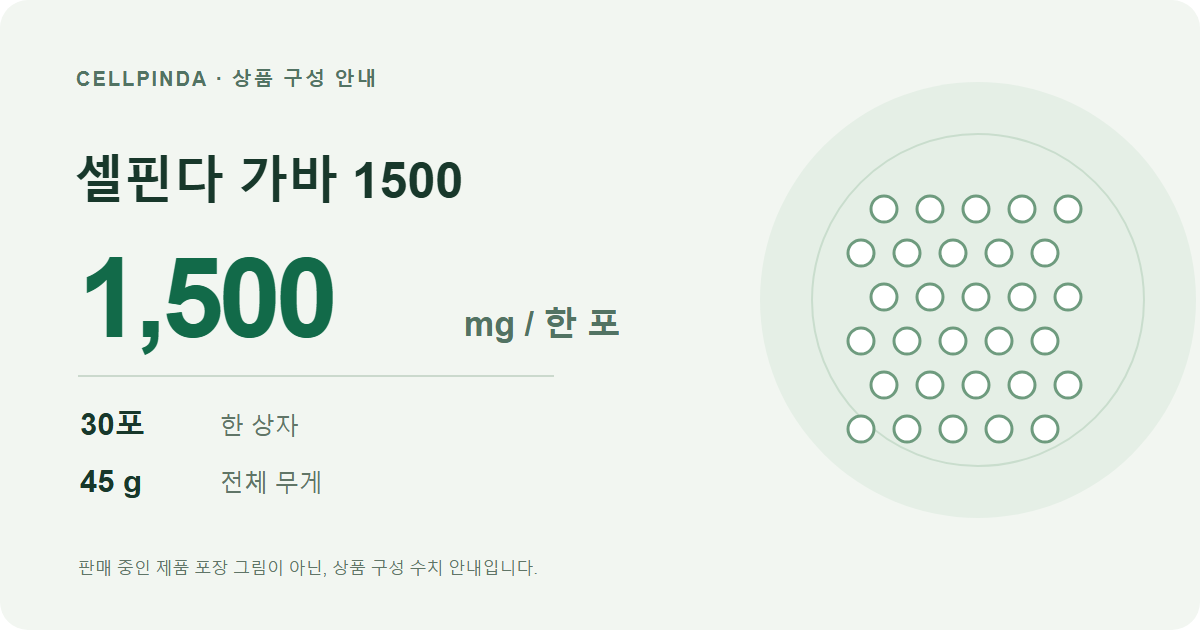
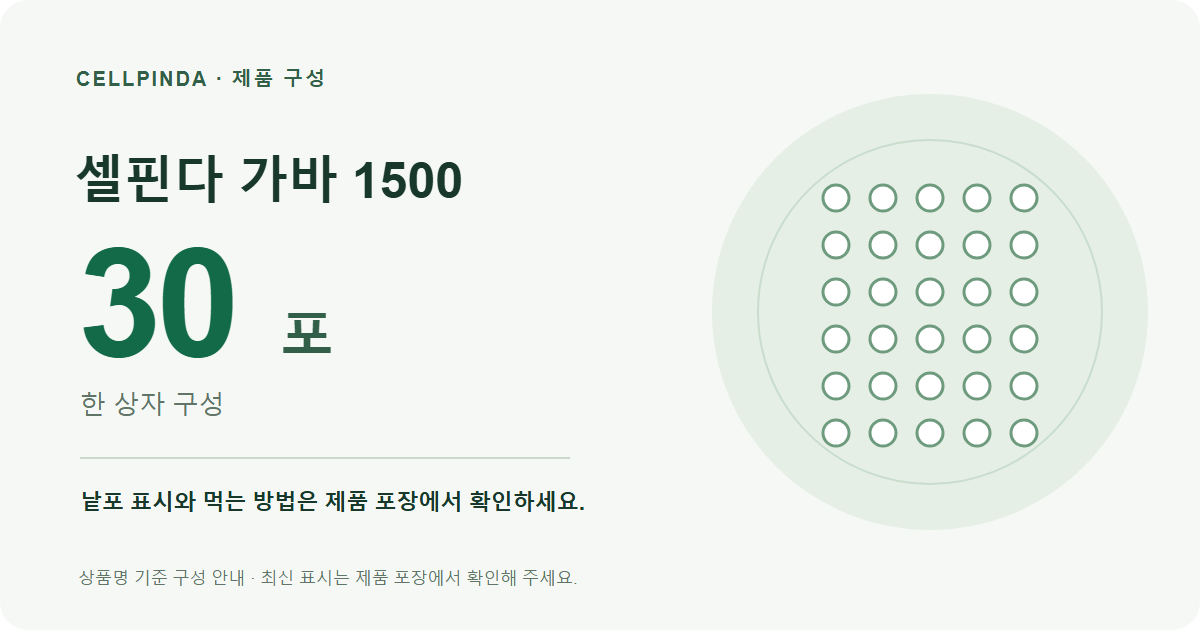
Apply consumer clarity and product evidence audit

diff --git a/src/App.tsx b/src/App.tsx
@@ -18,7 +18,7 @@ import {analyticsConsentGranted} from './domain/analytics-consent';
 import {REVIEW_DESTINATION_URL} from './domain/reviews';
 const Admin = lazy(() => import('./components/Admin'));
 const MemberRecords=lazy(()=>import('./components/MemberRecords'));
-type Product={id:string;name:string;amountMg:number;servings:number;totalG:number;category:string;officialUrl:string;availability?:string;priceDisplay?:string|null};
+type Product={id:string;name:string;servings:number;category:string;officialUrl:string;availability?:string;priceDisplay?:string|null};
 type Content={claims:Claim[];products:Product[];reviews:PublicReview[]};
 const eventMap:Record<string,string>={rhythm_start:'rhythm_check_started',rhythm_complete:'rhythm_check_completed',share_request:'share_requested',share_copy:'share_link_copied',card_download:'share_image_downloaded',purchase_click:'purchase_outbound_clicked',review_open:'review_opened',review_nav:'review_section_navigated',faq_open:'purchase_question_opened'};
 const siteRoot=import.meta.env.BASE_URL;
@@ -75,7 +75,7 @@ async function loadContent(signal:AbortSignal):Promise<Content>{
  return fallback.json();
 }
 function ContentFallback({loading,onRetry}:{loading:boolean;onRetry:()=>void}){
- return <section className="section wrap content-status" aria-live="polite"><p className="chapter">셀핀다 발효가바</p><h2>{loading?'정보를 불러오고 있어요.':'연결이 잠시 늦어졌어요.'}</h2><p>{loading?'제품과 연구 정보를 불러오는 중입니다.':'1분 체크는 바로 할 수 있어요. 아래에서 GABA와 제품 정보를 먼저 살펴보세요.'}</p>{!loading?<div className="actions"><a className="button outline" href="https://smartstore.naver.com/cellpinda/products/4701017202" target="_blank" rel="noreferrer">스마트스토어 제품 보기 ↗</a><button type="button" className="button outline" onClick={onRetry}>다시 불러오기</button></div>:null}{!loading?<div className="content-status-grid"><article id="story"><p className="chapter">GABA는?</p><h3>뇌세포 사이에서 신호를 주고받는 데 쓰이는 물질</h3><p>GABA는 뇌세포 사이에서 신호를 주고받는 과정에 쓰이는 물질 중 하나예요.</p></article><article id="fermentation"><p className="chapter">발효가바는?</p><h3>발효 기술로 만든 GABA</h3><p>발효가바를 만드는 방법과 확인 자료를 쉽게 소개해요.</p></article><article id="products"><p className="chapter">제품 구성</p><h3>셀핀다 가바 1,500 mg × 30포</h3><p>현재 구성과 먹는 방법은 스마트스토어와 제품 포장에서 확인해 보세요.</p><a className="text-link" href="https://smartstore.naver.com/cellpinda/products/4701017202" target="_blank" rel="noreferrer">스마트스토어에서 제품 보기 ↗</a></article><article id="reviews"><p className="chapter">구매자 후기</p><h3>가바 1500 구매자 후기</h3><p>스마트스토어에서 구매한 사람들의 후기를 읽어보세요.</p></article><article id="research"><p className="chapter">연구 이야기</p><h3>사람 연구에서 무엇을 살펴봤나요?</h3><p>GABA와 잠·긴장·운동에 관한 연구를 쉬운 말로 정리했어요.</p><ul><li><strong>긴장할 때</strong> 생각을 많이 쓰는 과제 뒤 뇌파와 기분</li><li><strong>잠</strong> 잠드는 시간과 수면 기록</li><li><strong>운동</strong> 운동 뒤 몸에서 살펴본 변화</li></ul></article></div>:null}</section>;
+ return <section className="section wrap content-status" aria-live="polite"><p className="chapter">셀핀다 발효가바</p><h2>{loading?'정보를 불러오고 있어요.':'연결이 잠시 늦어졌어요.'}</h2><p>{loading?'제품과 연구 정보를 불러오는 중입니다.':'1분 체크는 바로 할 수 있어요. 아래에서 GABA와 제품 정보를 먼저 살펴보세요.'}</p>{!loading?<div className="actions"><a className="button outline" href="https://smartstore.naver.com/cellpinda/products/4701017202" target="_blank" rel="noreferrer">스마트스토어 제품 보기 ↗</a><button type="button" className="button outline" onClick={onRetry}>다시 불러오기</button></div>:null}{!loading?<div className="content-status-grid"><article id="story"><p className="chapter">GABA는?</p><h3>뇌세포 사이에서 신호를 주고받는 데 쓰이는 물질</h3><p>GABA는 뇌세포 사이에서 신호를 주고받는 과정에 쓰이는 물질 중 하나예요.</p></article><article id="fermentation"><p className="chapter">발효가바는?</p><h3>발효 기술로 만든 GABA</h3><p>발효가바를 만드는 방법과 확인 자료를 쉽게 소개해요.</p></article><article id="products"><p className="chapter">제품 구성</p><h3>셀핀다 가바 1500 · 30포 구성</h3><p>낱포 표시와 먹는 방법은 제품 포장에서, 가격과 재고는 스마트스토어에서 확인해 보세요.</p><a className="text-link" href="https://smartstore.naver.com/cellpinda/products/4701017202" target="_blank" rel="noreferrer">스마트스토어에서 제품 보기 ↗</a></article><article id="reviews"><p className="chapter">구매자 후기</p><h3>가바 1500 구매자 후기</h3><p>스마트스토어에서 구매한 사람들의 후기를 읽어보세요.</p></article><article id="research"><p className="chapter">연구 이야기</p><h3>사람 연구에서 무엇을 살펴봤나요?</h3><p>GABA와 잠·긴장·운동에 관한 연구를 쉬운 말로 정리했어요.</p><ul><li><strong>긴장할 때</strong> 생각을 많이 쓰는 과제 뒤 뇌파와 기분</li><li><strong>잠</strong> 잠드는 시간과 수면 기록</li><li><strong>운동</strong> 운동 뒤 몸에서 살펴본 변화</li></ul></article></div>:null}</section>;
 }
 export default function App(){
  const [content,setContent]=useState<Content|null>(null),[error,setError]=useState(false),[loading,setLoading]=useState(true),[menu,setMenu]=useState(false),[retryKey,setRetryKey]=useState(0);
@@ -179,10 +179,10 @@ export default function App(){
  if(accountView)return <Suspense fallback={<p className="loading">내 기록을 여는 중입니다.</p>}><MemberRecords/></Suspense>;
  if(adminView)return <Suspense fallback={<p className="loading">검토실을 여는 중입니다.</p>}><Admin/></Suspense>;
  if(operationsView)return <OperationsMvp/>;
-  if(researchView)return <><a className="skip" href="#main">본문으로 이동</a><header className="header research-route-header"><a href={siteRoot} className="brand">Cellpinda<span className="brand-dot">.</span></a><nav aria-label="연구 메뉴"><a href={siteRoot}>메인으로 돌아가기</a></nav></header><main id="main" className="research-route-main">{content?<><section className="research-route-intro wrap"><p className="chapter">GABA 사람 연구</p><h1>사람 연구 내용을<br/>그림과 쉬운 말로 살펴봐요.</h1><p>GABA 사람 연구를 쉬운 말로 소개해요. 셀핀다 제품 정보는 제품 페이지에서 확인해 보세요.</p></section><ResearchLibrary claims={content.claims} onOpen={()=>track('evidence_opened',{path:'/research'})}/><section className="section wrap research-route-product" aria-labelledby="research-route-product-heading"><div><p className="chapter">제품 구성</p><h2 id="research-route-product-heading">연구 내용과 제품 구성은<br/>따로 확인해 보세요.</h2><p>셀핀다 가바 1500의 한 포 기준 양과 상자 구성을 확인할 수 있어요.</p></div><a className="button outline" href={`${siteRoot}#products`}>셀핀다 가바 1500 구성 보기 <ArrowRight size={18}/></a></section></>:<section className="section wrap content-status"><p className="chapter">GABA 사람 연구</p><h1>{loading?'연구 내용을 불러오고 있어요.':'연결이 잠시 늦어졌어요.'}</h1><p>{loading?'사람 연구를 쉽게 정리한 내용을 불러오는 중입니다.':'연구 자료를 불러오지 못했습니다. 다시 시도해 주세요.'}</p>{!loading?<button type="button" className="button outline" onClick={()=>setRetryKey(value=>value+1)}>다시 불러오기</button>:null}</section>}</main><footer className="wrap footer research-route-footer"><a className="brand" href={siteRoot}>Cellpinda.</a><p>GABA 사람 연구 안내</p><a href={siteRoot}>메인으로 돌아가기</a></footer></>;
+  if(researchView)return <><a className="skip" href="#main">본문으로 이동</a><header className="header research-route-header"><a href={siteRoot} className="brand">Cellpinda<span className="brand-dot">.</span></a><nav aria-label="연구 메뉴"><a href={siteRoot}>메인으로 돌아가기</a></nav></header><main id="main" className="research-route-main">{content?<><section className="research-route-intro wrap"><p className="chapter">GABA 사람 연구</p><h1>사람 연구 내용을<br/>그림과 쉬운 말로 살펴봐요.</h1><p>GABA 사람 연구를 쉬운 말로 소개해요. 셀핀다 제품 정보는 제품 페이지에서 확인해 보세요.</p></section><ResearchLibrary claims={content.claims} onOpen={()=>track('evidence_opened',{path:'/research'})}/><section className="section wrap research-route-product" aria-labelledby="research-route-product-heading"><div><p className="chapter">제품 구성</p><h2 id="research-route-product-heading">연구 내용과 제품 구성은<br/>따로 확인해 보세요.</h2><p>제품명과 30포 구성을 확인할 수 있어요. 낱포 표시 내용은 제품 포장에서 확인해 주세요.</p></div><a className="button outline" href={`${siteRoot}#products`}>셀핀다 가바 1500 구성 보기 <ArrowRight size={18}/></a></section></>:<section className="section wrap content-status"><p className="chapter">GABA 사람 연구</p><h1>{loading?'연구 내용을 불러오고 있어요.':'연결이 잠시 늦어졌어요.'}</h1><p>{loading?'사람 연구를 쉽게 정리한 내용을 불러오는 중입니다.':'연구 자료를 불러오지 못했습니다. 다시 시도해 주세요.'}</p>{!loading?<button type="button" className="button outline" onClick={()=>setRetryKey(value=>value+1)}>다시 불러오기</button>:null}</section>}</main><footer className="wrap footer research-route-footer"><a className="brand" href={siteRoot}>Cellpinda.</a><p>GABA 사람 연구 안내</p><a href={siteRoot}>메인으로 돌아가기</a></footer></>;
  const linkContext=referralId?<aside className="link-context" aria-live="polite">공유된 리듬 링크로 방문했어요. 내 하루도 1분이면 확인할 수 있어요.</aside>:campaignId?<aside className="link-context" aria-live="polite">캠페인 링크로 방문했어요. 원하는 흐름부터 살펴보세요.</aside>:null;
    return <><a className="skip" href="#main">본문으로 이동</a><header className="header"><a href={siteRoot} className="brand">Cellpinda<span className="brand-dot">.</span></a><nav id="primary-navigation" ref={menuNavRef} aria-label="주 메뉴" className={menu?'open':''} onClick={()=>closeMenu()} onKeyDown={event=>{if(event.key==='Escape')closeMenu(true)}}><a href="#rhythm">잠과 휴식 체크</a><a href="#story">GABA는?</a><a href={`${siteRoot}research/`}>GABA 연구 읽기</a><a href="#fermentation">발효가바는?</a><a href="#products">제품 구성</a>{content?.reviews?.length ? <a href={REVIEW_DESTINATION_URL} target="_blank" rel="noopener noreferrer" onClick={()=>track('review_open',{productId:'gaba1500',path:'/header'})}>가바 1500 구매자 후기 ↗</a> : null}</nav><a href="#rhythm" className="button small" onClick={()=>track('hero_check_start',{path:'/header'})}>1분 체크 <ArrowRight size={18}/></a><button ref={menuToggleRef} className="menu-toggle" aria-label={menu?'메뉴 닫기':'메뉴 열기'} aria-expanded={menu} aria-controls="primary-navigation" onClick={()=>setMenu(!menu)}>{menu?<X/>:<Menu/>}</button></header>{linkContext}
-  <main id="main"><section className="hero"><img className="hero-photo" src={asset('assets/rhythm-window.webp')} width={1536} height={1024} fetchPriority="high" decoding="async" alt="초록 나무가 보이는 열린 창가와 물 한 잔"/><div className="hero-copy"><p className="chapter">나의 하루 리듬 체크</p><h1>퇴근했는데도<br/>일 생각이<br className="mobile-break"/> 계속 나나요?</h1><p className="hero-question">지난 7일, 잠들기 어렵거나<br className="mobile-break"/> 아침에도 피곤한 날이 있었나요?</p><div className="actions"><a className="button" href="#rhythm" onClick={()=>track('hero_check_start',{path:'/'})}>잠과 휴식 1분 체크 <ArrowRight/></a><a className="button outline" href="#teaser">발효가바 이야기 보기 <ArrowRight/></a></div>{heroProduct?<a className="hero-product" href="#products" aria-label={`셀핀다 발효가바 ${heroProduct.amountMg.toLocaleString('ko-KR')} 제품 구성 보기`}><img src={asset(`assets/product-composition-${heroProduct.amountMg}.svg`)} width="66" height="66" alt=""/><span><strong>셀핀다 발효가바 {heroProduct.amountMg.toLocaleString('ko-KR')}</strong><span className="hero-product-meta">{heroProduct.servings}포 구성 · {heroProduct.category}</span></span><ArrowRight className="hero-product-arrow" size={17} aria-hidden="true"/></a>:null}<a className="hero-game-link" href="#focus-game" onClick={()=>track('focus_game_start',{path:'/hero'})}>뇌 컨디션 확인 챌린지 해보기 <ArrowRight size={16}/></a></div></section>
+  <main id="main"><section className="hero"><img className="hero-photo" src={asset('assets/rhythm-window.webp')} width={1536} height={1024} fetchPriority="high" decoding="async" alt="초록 나무가 보이는 열린 창가와 물 한 잔"/><div className="hero-copy"><p className="chapter">나의 하루 리듬 체크</p><h1>퇴근했는데도<br/>일 생각이<br className="mobile-break"/> 계속 나나요?</h1><p className="hero-question">지난 7일, 잠들기 어렵거나<br className="mobile-break"/> 아침에도 피곤한 날이 있었나요?</p><div className="actions"><a className="button" href="#rhythm" onClick={()=>track('hero_check_start',{path:'/'})}>잠과 휴식 1분 체크 <ArrowRight/></a><a className="button outline" href="#teaser">발효가바 이야기 보기 <ArrowRight/></a></div>{heroProduct?<a className="hero-product" href="#products" aria-label={heroProduct.name + ' 제품 구성 보기'}><img src={asset('assets/product-composition-1500.svg')} width="66" height="66" alt=""/><span><strong>{heroProduct.name}</strong><span className="hero-product-meta">{heroProduct.servings}포 구성 · {heroProduct.category}</span></span><ArrowRight className="hero-product-arrow" size={17} aria-hidden="true"/></a>:null}<a className="hero-game-link" href="#focus-game" onClick={()=>track('focus_game_start',{path:'/hero'})}>뇌 컨디션 확인 챌린지 해보기 <ArrowRight size={16}/></a></div></section>
  <section className="intro-strip wrap"><h2>내 하루를 돌아보는 1분,<br/>오늘 쉴 시간을 찾아요.</h2>{[['01','돌아보기','지난 7일, 잠과 휴식은 어땠나요?','#rhythm'],['02','알아보기','GABA가 무엇인지 쉬운 말로 봐요.','#story'],['03','제품 확인','한 포의 양과 먹는 법을 확인해요.','#products']].map(([n,t,d,href])=><a className="step" href={href} key={n}><span>{n}</span><h3>{t}</h3><p>{d}</p></a>)}</section>
   <div className="wrap section"><RhythmExperience onEvent={track}/></div>
   {content ? <>
@@ -193,8 +193,8 @@ export default function App(){
      <div><p className="chapter">GABA 연구 읽기</p><h2>수면·긴장·운동 연구를<br/>그림과 쉬운 말로</h2><p>누가 참여했고 무엇을 살펴봤는지 한곳에서 확인해 보세요.</p></div>
      <div className="research-gateway-actions"><a className="button outline" href={`${siteRoot}research/`}>사람 연구 살펴보기 <ArrowRight size={18}/></a><a className="research-gateway-product-link" href="#products">가바 1500 구성 보기 <ArrowRight size={16}/></a></div>
    </section>
- <section id="fermentation" className="section sage"><div className="wrap"><div className="section-head"><div><p className="chapter">03 / 발효가바는?</p><h2>발효가바를<br/>쉽게 알아보세요.</h2></div><p>발효가 무엇인지, 제품 정보를 어디서 볼 수 있는지<br/>쉬운 말로 안내합니다.</p></div><div className="fermentation-questions">{[['무엇으로 만들었나요?','셀핀다 스마트스토어 상품은 발효가바로 소개돼 있어요. 원재료와 함량은 제품 표시사항에서 확인해 주세요.'],['발효 기술이 뭔가요?','특허 문서는 유산균으로 GABA를 만드는 방법을 설명하는 자료예요. 제품의 실제 제조공정은 제품 자료에서 따로 확인해 주세요.'],['제품 정보는 어디서 보나요?','한 포에 든 양과 제품 구성은 제품 포장과 스마트스토어에서 확인할 수 있어요.'],['먹는 법은 어디에 있나요?','제품 포장에 적힌 먹는 방법과 주의사항을 확인해 주세요.']].map(([question,answer],index)=><article key={question}><span>0{index+1}</span><h3>{question}</h3><p>{answer}</p></article>)}</div><div className="process">{['발효하기','걸러내기','한 포에 든 양 확인','품질 살피기'].map((t,i)=><div key={t}><span>0{i+1}</span><h3>{t}</h3></div>)}</div>{content.claims.filter(c=>!c.id.startsWith('product-')&&!c.id.startsWith('research-')&&!c.id.startsWith('gaba-')&&c.publicText).map(c=><details className="claim" key={c.id}><summary>{c.publicText}</summary><div>{c.sources.filter(s=>s.url).map(s=><a key={s.url} href={s.url!} target="_blank" rel="noreferrer" aria-label={`${s.title} 문서 보기`}>특허 문서에서 보기 ↗</a>)}</div></details>)}</div></section>
- <section id="products" className="section wrap"><div className="section-head"><div><p className="chapter">04 / 제품 구성</p><h2>가바 1500 한 상자에는<br/>무엇이 들어 있나요?</h2></div><p>한 포에 든 양과 상자 안 포 수를 확인해 보세요.<br/>먹는 법과 주의사항은 제품 포장에 적혀 있어요.{content.reviews?.length ? <><br/><a className="products-review-shortcut" href={REVIEW_DESTINATION_URL} target="_blank" rel="noopener noreferrer" onClick={()=>{track('review_open',{productId:'gaba1500',path:'/products-intro'});track('review_source_click',{productId:'gaba1500',path:'/products-intro'})}}>구매자 후기 먼저 보기 ↗</a></> : null}</p></div><div className="products">{content.products.map(p=><article id={`product-${p.id}`} className="product" key={p.id}><div className="product-visual" role="img" aria-label={`${p.name}: 한 포 ${p.amountMg.toLocaleString()} mg, ${p.servings}포, 전체 ${p.totalG} g 구성 안내`}><span className="product-visual-kicker">한 상자 구성</span><strong>{p.amountMg.toLocaleString()}<small>mg</small></strong><span className="product-visual-subtitle">한 포 기준</span><div className="product-portion-grid" aria-hidden="true">{Array.from({length:p.servings},(_,index)=><i key={index}/>)}</div><div className="product-visual-facts"><span><strong>{p.servings}포</strong> 한 상자</span><span><strong>{p.totalG} g</strong> 전체 무게</span></div></div><div className="product-body"><h3>{p.name} <small className="product-category">{p.category}</small></h3><dl><div><dt>가격·재고</dt><dd>{p.availability || '스마트스토어에서 확인'}</dd></div><div><dt>먹는 법·보관</dt><dd>제품 포장에서 확인</dd></div></dl><a className="button outline" href={p.officialUrl} target="_blank" rel="noreferrer" onClick={()=>{track('purchase_click',{productId:p.id,path:'/products'});track('purchase_cta_click',{productId:p.id,path:'/products'})}}>가격·재고 확인하기 <ArrowUpRight size={18}/></a></div></article>)}</div><PurchaseQuestions products={content.products} onEvent={track} />{content.products.length>0&&<ProductShare onEvent={track}/>}</section>
+ <section id="fermentation" className="section sage"><div className="wrap"><div className="section-head"><div><p className="chapter">03 / 발효가바는?</p><h2>발효가바를<br/>쉽게 알아보세요.</h2></div><p>발효가 무엇인지, 제품 정보를 어디서 볼 수 있는지<br/>쉬운 말로 안내합니다.</p></div><div className="fermentation-questions">{[['무엇으로 만들었나요?','셀핀다 스마트스토어 상품은 발효가바로 소개돼 있어요. 원재료와 함량은 제품 표시사항에서 확인해 주세요.'],['발효 기술이 뭔가요?','특허 문서는 유산균으로 GABA를 만드는 방법을 설명하는 자료예요. 제품의 실제 제조공정은 제품 자료에서 따로 확인해 주세요.'],['제품 정보는 어디서 보나요?','한 포에 든 양과 제품 구성은 제품 포장과 스마트스토어에서 확인할 수 있어요.'],['먹는 법은 어디에 있나요?','제품 포장에 적힌 먹는 방법과 주의사항을 확인해 주세요.']].map(([question,answer],index)=><article key={question}><span>0{index+1}</span><h3>{question}</h3><p>{answer}</p></article>)}</div><p className="process-note"><span>특허 문서의 예시</span>유산균과 재료 성분으로 GABA를 만드는 방법이에요. <a className="text-link" href="https://patents.google.com/patent/KR101740968B1/ko" target="_blank" rel="noopener noreferrer">특허 문서 보기 ↗</a></p><div className="process">{['유산균 + 재료 성분','발효','GABA 생성'].map((t,i)=><div key={t}><span>0{i+1}</span><h3>{t}</h3></div>)}</div>{content.claims.filter(c=>!c.id.startsWith('product-')&&!c.id.startsWith('research-')&&!c.id.startsWith('gaba-')&&c.publicText).map(c=><details className="claim" key={c.id}><summary>{c.publicText}</summary><div>{c.sources.filter(s=>s.url).map(s=><a key={s.url} href={s.url!} target="_blank" rel="noreferrer" aria-label={`${s.title} 문서 보기`}>특허 문서에서 보기 ↗</a>)}</div></details>)}</div></section>
+ <section id="products" className="section wrap"><div className="section-head"><div><p className="chapter">04 / 제품 구성</p><h2>가바 1500 한 상자에는<br/>무엇이 들어 있나요?</h2></div><p>상품명과 한 상자 포 수를 확인해 보세요.<br/>낱포 표시·먹는 법·주의사항은 제품 포장에서 확인해 주세요.{content.reviews?.length ? <><br/><a className="products-review-shortcut" href={REVIEW_DESTINATION_URL} target="_blank" rel="noopener noreferrer" onClick={()=>{track('review_open',{productId:'gaba1500',path:'/products-intro'});track('review_source_click',{productId:'gaba1500',path:'/products-intro'})}}>구매자 후기 먼저 보기 ↗</a></> : null}</p></div><div className="products">{content.products.map(p=><article id={`product-${p.id}`} className="product" key={p.id}><div className="product-visual" role="img" aria-label={p.name + ', ' + p.servings + '포 한 상자 구성'}><span className="product-visual-kicker">한 상자 구성</span><strong>{p.servings}<small>포</small></strong><span className="product-visual-subtitle">한 상자에 든 포 수</span><div className="product-portion-grid" aria-hidden="true">{Array.from({length:p.servings},(_,index)=><i key={index}/>)}</div><div className="product-visual-facts"><span><strong>{p.category}</strong> 식품 유형</span></div></div><div className="product-body"><h3>{p.name} <small className="product-category">{p.category}</small></h3><dl><div><dt>가격·재고</dt><dd>{p.availability || '스마트스토어에서 확인'}</dd></div><div><dt>먹는 법·보관</dt><dd>제품 포장에서 확인</dd></div></dl><a className="button outline" href={p.officialUrl} target="_blank" rel="noreferrer" onClick={()=>{track('purchase_click',{productId:p.id,path:'/products'});track('purchase_cta_click',{productId:p.id,path:'/products'})}}>가격·재고 확인하기 <ArrowUpRight size={18}/></a></div></article>)}</div><PurchaseQuestions products={content.products} onEvent={track} />{content.products.length>0&&<ProductShare onEvent={track}/>}</section>
  <ReviewExperience reviews={content.reviews} onOpen={productId=>{track('review_open',{productId});track('review_source_click',{productId,path:'/reviews'})}}/>
  </> : <ContentFallback loading={loading} onRetry={()=>setRetryKey(value=>value+1)}/>} 
  <SevenDayChallenge onEvent={track} isInvite={challengeInvite}/>

diff --git a/index.html b/index.html
@@ -1,2 +1,2 @@
-<!doctype html><html lang="ko"><head><meta charset="UTF-8"/><meta name="viewport" content="width=device-width, initial-scale=1.0"/><meta name="description" content="퇴근 뒤에도 일이 생각나거나 잠들기 어려운 날, 1분 체크로 지난 7일의 잠과 휴식을 돌아보고 GABA와 셀핀다 발효가바를 알아보세요."/><meta name="theme-color" content="#0b8f4d"/><meta property="og:title" content="퇴근했는데도 일 생각이 계속 나나요? | Cellpinda"/><meta property="og:description" content="잠과 휴식에 관한 1분 체크, GABA 이야기와 구매자 후기를 만나보세요."/><meta property="og:site_name" content="셀핀다 발효가바"/><meta property="og:locale" content="ko_KR"/><link rel="canonical" href="https://kradavid.github.io/cellpinda_GABA/"/><script type="application/ld+json">{"@context":"https://schema.org","@type":"WebSite","name":"셀핀다 발효가바","url":"https://kradavid.github.io/cellpinda_GABA/","description":"잠과 휴식을 돌아보고 GABA와 셀핀다 발효가바를 알아보는 사이트.","inLanguage":"ko-KR"}</script><meta property="og:type" content="website"/><meta property="og:url" content="https://kradavid.github.io/cellpinda_GABA/"/><meta property="og:image" content="https://kradavid.github.io/cellpinda_GABA/assets/social-card.png"/><meta property="og:image:alt" content="셀핀다 GABA 이야기와 잠·휴식 1분 체크"/><meta name="twitter:card" content="summary_large_image"/><meta name="twitter:title" content="퇴근했는데도 일 생각이 계속 나나요? | Cellpinda"/><meta name="twitter:description" content="잠과 휴식에 관한 1분 체크, GABA 이야기와 구매자 후기를 만나보세요."/><meta name="twitter:image" content="https://kradavid.github.io/cellpinda_GABA/assets/social-card.png"/><link rel="icon" type="image/svg+xml" href="./favicon.svg"/><title>퇴근했는데도 일 생각이 계속 나나요? | Cellpinda</title></head><body><div id="root"></div><noscript><style>.noscript-fallback{max-width:720px;margin:0 auto;padding:48px 24px;font-family:Arial,sans-serif;line-height:1.65;color:#17221d}.noscript-fallback h1{margin:0 0 12px;font-size:32px;letter-spacing:-.04em}.noscript-fallback h2{margin:32px 0 8px;font-size:20px}.noscript-fallback p{margin:8px 0}.noscript-fallback ul{padding-left:22px}.noscript-fallback li{margin:8px 0}.noscript-fallback a{color:#087f45;font-weight:700}.noscript-fallback .note{font-size:14px;color:#5b6b62}.noscript-fallback .card{padding:20px;border:1px solid #d9e7de;border-radius:18px;background:#f6fbf8}</style><main class="noscript-fallback"><p class="note">기본 정보만 먼저 보여드려요.</p><h1>셀핀다 발효가바</h1><p>GABA는 뇌세포가 서로 신호를 주고받을 때 쓰이는 물질 가운데 하나예요. 셀핀다는 발효 기술로 만든 GABA를 담았습니다.</p><section class="card"><h2>제품</h2><p><strong>셀핀다 가바 1,500 mg × 30포</strong></p><p>제품 구성과 구매는 스마트스토어에서 확인할 수 있습니다.</p><p>가바 1500 구매자 후기를 스마트스토어에서 읽어보세요.</p><p><a href="https://smartstore.naver.com/cellpinda/products/4701017202" rel="noopener noreferrer">스마트스토어에서 제품 보기</a></p><p><a href="https://smartstore.naver.com/cellpinda/products/4701017202#REVIEW_DIALOG" rel="noopener noreferrer">스마트스토어에서 후기 읽기</a></p></section><section><h2>연구를 쉽게 보기</h2><p>GABA와 잠·긴장·운동에 관한 사람 연구를 쉬운 말로 정리했어요.</p><ul><li><strong>스트레스·기분</strong> 생각을 많이 쓴 과제 뒤 뇌파와 기분</li><li><strong>수면</strong> 잠드는 시간과 잠든 모습을 살펴본 연구</li><li><strong>운동</strong> 운동 뒤 혈액 속 호르몬과 몸무게 변화를 살펴본 연구</li></ul></section></main></noscript><script type="module" src="/src/main.tsx"></script></body></html>
+<!doctype html><html lang="ko"><head><meta charset="UTF-8"/><meta name="viewport" content="width=device-width, initial-scale=1.0"/><meta name="description" content="퇴근 뒤에도 일이 생각나거나 잠들기 어려운 날, 1분 체크로 지난 7일의 잠과 휴식을 돌아보고 GABA와 셀핀다 발효가바를 알아보세요."/><meta name="theme-color" content="#0b8f4d"/><meta property="og:title" content="퇴근했는데도 일 생각이 계속 나나요? | Cellpinda"/><meta property="og:description" content="잠과 휴식에 관한 1분 체크, GABA 이야기와 구매자 후기를 만나보세요."/><meta property="og:site_name" content="셀핀다 발효가바"/><meta property="og:locale" content="ko_KR"/><link rel="canonical" href="https://kradavid.github.io/cellpinda_GABA/"/><script type="application/ld+json">{"@context":"https://schema.org","@type":"WebSite","name":"셀핀다 발효가바","url":"https://kradavid.github.io/cellpinda_GABA/","description":"잠과 휴식을 돌아보고 GABA와 셀핀다 발효가바를 알아보는 사이트.","inLanguage":"ko-KR"}</script><meta property="og:type" content="website"/><meta property="og:url" content="https://kradavid.github.io/cellpinda_GABA/"/><meta property="og:image" content="https://kradavid.github.io/cellpinda_GABA/assets/social-card.png"/><meta property="og:image:alt" content="셀핀다 GABA 이야기와 잠·휴식 1분 체크"/><meta name="twitter:card" content="summary_large_image"/><meta name="twitter:title" content="퇴근했는데도 일 생각이 계속 나나요? | Cellpinda"/><meta name="twitter:description" content="잠과 휴식에 관한 1분 체크, GABA 이야기와 구매자 후기를 만나보세요."/><meta name="twitter:image" content="https://kradavid.github.io/cellpinda_GABA/assets/social-card.png"/><link rel="icon" type="image/svg+xml" href="./favicon.svg"/><title>퇴근했는데도 일 생각이 계속 나나요? | Cellpinda</title></head><body><div id="root"></div><noscript><style>.noscript-fallback{max-width:720px;margin:0 auto;padding:48px 24px;font-family:Arial,sans-serif;line-height:1.65;color:#17221d}.noscript-fallback h1{margin:0 0 12px;font-size:32px;letter-spacing:-.04em}.noscript-fallback h2{margin:32px 0 8px;font-size:20px}.noscript-fallback p{margin:8px 0}.noscript-fallback ul{padding-left:22px}.noscript-fallback li{margin:8px 0}.noscript-fallback a{color:#087f45;font-weight:700}.noscript-fallback .note{font-size:14px;color:#5b6b62}.noscript-fallback .card{padding:20px;border:1px solid #d9e7de;border-radius:18px;background:#f6fbf8}</style><main class="noscript-fallback"><p class="note">기본 정보만 먼저 보여드려요.</p><h1>셀핀다 발효가바</h1><p>GABA는 뇌세포가 서로 신호를 주고받을 때 쓰이는 물질 가운데 하나예요. 셀핀다는 발효 기술로 만든 GABA를 담았습니다.</p><section class="card"><h2>제품</h2><p><strong>셀핀다 가바 1500 · 30포 구성</strong></p><p>낱포 표시는 제품 포장에서, 가격과 재고는 스마트스토어에서 확인할 수 있습니다.</p><p>가바 1500 구매자 후기를 스마트스토어에서 읽어보세요.</p><p><a href="https://smartstore.naver.com/cellpinda/products/4701017202" rel="noopener noreferrer">스마트스토어에서 제품 보기</a></p><p><a href="https://smartstore.naver.com/cellpinda/products/4701017202#REVIEW_DIALOG" rel="noopener noreferrer">스마트스토어에서 후기 읽기</a></p></section><section><h2>연구를 쉽게 보기</h2><p>GABA와 잠·긴장·운동에 관한 사람 연구를 쉬운 말로 정리했어요.</p><ul><li><strong>스트레스·기분</strong> 생각을 많이 쓴 과제 뒤 뇌파와 기분</li><li><strong>수면</strong> 잠드는 시간과 잠든 모습을 살펴본 연구</li><li><strong>운동</strong> 운동 경험이 있는 남성 11명이 GABA 캡슐을 먹고 쉰 경우와 운동한 경우, 혈액 속 성장호르몬 수치를 살펴봤어요.</li></ul></section></main></noscript><script type="module" src="/src/main.tsx"></script></body></html>
 

diff --git a/public/products/index.html b/public/products/index.html
@@ -1,15 +1,15 @@
 <!doctype html>
 <html lang="ko"><head><meta charset="UTF-8"><meta name="viewport" content="width=device-width, initial-scale=1">
-<title>셀핀다 가바 1,500 · 제품 구성 보기</title><meta name="description" content="한 포에 든 양과 상자 구성을 확인해 보세요. 가격과 판매 정보는 스마트스토어에서 볼 수 있어요.">
+<title>셀핀다 가바 1500 · 30포 구성 보기</title><meta name="description" content="셀핀다 가바 1500 · 30포 구성. 낱포 표시와 가격·재고는 스마트스토어에서 확인해 보세요.">
 <link rel="canonical" href="https://kradavid.github.io/cellpinda_GABA/products/"><meta name="robots" content="index,follow">
-<meta property="og:type" content="product"><meta property="og:site_name" content="셀핀다 발효가바"><meta property="og:locale" content="ko_KR"><meta property="og:url" content="https://kradavid.github.io/cellpinda_GABA/products/"><meta property="og:title" content="셀핀다 가바 1,500 · 제품 구성 보기"><meta property="og:description" content="한 포에 든 양과 상자 구성을 확인해 보세요. 가격과 판매 정보는 스마트스토어에서 볼 수 있어요."><meta property="og:image" content="https://kradavid.github.io/cellpinda_GABA/assets/product-composition-1500.png"><meta property="og:image:alt" content="한 포 1,500 mg, 30포, 전체 45 g 구성 안내">
-<meta name="twitter:card" content="summary_large_image"><meta name="twitter:title" content="셀핀다 가바 1,500 · 제품 구성 보기"><meta name="twitter:description" content="한 포에 든 양과 상자 구성을 확인해 보세요. 가격과 판매 정보는 스마트스토어에서 볼 수 있어요."><meta name="twitter:image" content="https://kradavid.github.io/cellpinda_GABA/assets/product-composition-1500.png">
-<script type="application/ld+json">{"@context":"https://schema.org","@type":"WebPage","name":"셀핀다 가바 1,500 · 제품 구성 보기","url":"https://kradavid.github.io/cellpinda_GABA/products/","description":"한 포에 든 양과 상자 구성을 확인해 보세요. 가격과 판매 정보는 스마트스토어에서 볼 수 있어요.","inLanguage":"ko-KR","isPartOf":{"@type":"WebSite","url":"https://kradavid.github.io/cellpinda_GABA/"}}</script><link rel="icon" type="image/svg+xml" href="../favicon.svg">
+<meta property="og:type" content="product"><meta property="og:site_name" content="셀핀다 발효가바"><meta property="og:locale" content="ko_KR"><meta property="og:url" content="https://kradavid.github.io/cellpinda_GABA/products/"><meta property="og:title" content="셀핀다 가바 1500 · 30포 구성 보기"><meta property="og:description" content="셀핀다 가바 1500 · 30포 구성. 낱포 표시와 가격·재고는 스마트스토어에서 확인해 보세요."><meta property="og:image" content="https://kradavid.github.io/cellpinda_GABA/assets/product-composition-1500.png"><meta property="og:image:alt" content="셀핀다 가바 1500, 30포 한 상자 구성 안내">
+<meta name="twitter:card" content="summary_large_image"><meta name="twitter:title" content="셀핀다 가바 1500 · 30포 구성 보기"><meta name="twitter:description" content="셀핀다 가바 1500 · 30포 구성. 낱포 표시와 가격·재고는 스마트스토어에서 확인해 보세요."><meta name="twitter:image" content="https://kradavid.github.io/cellpinda_GABA/assets/product-composition-1500.png">
+<script type="application/ld+json">{"@context":"https://schema.org","@type":"WebPage","name":"셀핀다 가바 1500 · 30포 구성 보기","url":"https://kradavid.github.io/cellpinda_GABA/products/","description":"셀핀다 가바 1500 · 30포 구성. 낱포 표시와 가격·재고는 스마트스토어에서 확인해 보세요.","inLanguage":"ko-KR","isPartOf":{"@type":"WebSite","url":"https://kradavid.github.io/cellpinda_GABA/"}}</script><link rel="icon" type="image/svg+xml" href="../favicon.svg">
 <meta http-equiv="refresh" content="0;url=../?view=products#products"></head><body>
 <main style="max-width:720px;margin:0 auto;padding:40px 24px;font-family:Arial,'Malgun Gothic',sans-serif;line-height:1.7;color:#18382b">
-<p>셀핀다 발효가바 · 제품 구성</p><h1>셀핀다 가바 1,500 · 제품 구성 보기</h1>
-<img src="../assets/product-composition-1500.svg" alt="한 포 1,500 mg, 30포, 전체 45 g 구성 안내" style="display:block;width:min(100%,560px);height:auto;margin:24px auto">
-<p>한 포에 든 양과 상자 구성을 확인해 보세요. 가격과 판매 정보는 스마트스토어에서 확인할 수 있습니다.</p>
+<p>셀핀다 발효가바 · 제품 구성</p><h1>셀핀다 가바 1500 · 30포 구성 보기</h1>
+<img src="../assets/product-composition-1500.svg" alt="셀핀다 가바 1500, 30포 한 상자 구성 안내" style="display:block;width:min(100%,560px);height:auto;margin:24px auto">
+<p>셀핀다 가바 1500 · 30포 구성입니다. 낱포 표시는 제품 포장에서, 가격과 재고는 스마트스토어에서 확인해 주세요.</p>
 <p><a href="../?view=products#products" style="color:#158457;font-weight:700">사이트에서 제품 구성 보기 →</a></p>
 <p><a href="https://smartstore.naver.com/cellpinda/products/4701017202" style="color:#158457;font-weight:700">스마트스토어에서 판매 정보 보기 ↗</a></p>
 </main><script>(function(){const target=new URL('../',location.href);target.searchParams.set('view','products');for(const key of ['ref','campaign']){const value=new URLSearchParams(location.search).get(key)||'';if(/^[A-Za-z0-9_-]{1,64}$/.test(value))target.searchParams.set(key,value);}target.hash='products';location.replace(target.toString());})()</script>

diff --git a/src/components/SevenDayChallenge.css b/src/components/SevenDayChallenge.css
@@ -1,6 +1,8 @@
 .seven-day-challenge{color:#18382b;scroll-margin-top:96px}.challenge-invite{margin:0 0 20px;padding:12px 16px;border-left:3px solid #158457;background:#f0f6ef;color:#18382b;font-size:14px;line-height:1.6}.challenge-start{display:flex;align-items:center;justify-content:space-between;gap:32px;background:#e8f1e7;padding:32px;border-radius:8px;margin-top:28px}.challenge-start p{margin-bottom:0}.challenge-start .button{flex-shrink:0}.challenge-legacy{font-size:13px;padding:16px 20px;border:1px solid #d9e5dc;border-radius:5px}.challenge-record-heading{display:flex;align-items:center;justify-content:space-between;gap:24px;padding:28px 0;border-bottom:1px solid #d9e5dc}.challenge-record-heading p{font-size:14px;margin-bottom:8px}.challenge-record-heading h3{font-size:28px;margin-bottom:10px}.challenge-record-actions{display:flex;gap:24px;flex-wrap:wrap}.challenge-record-actions .text-link{display:inline-flex;gap:8px;align-items:center;font-size:13px}.challenge-days{list-style:none;padding:0;margin:0}.challenge-days>li{padding:24px 0;border-bottom:1px solid #d9e5dc}.challenge-day-main{display:flex;gap:24px;align-items:center}.challenge-day-number{font-size:26px;font-weight:400;color:#158457}.challenge-day-description{flex:1;min-width:0}.challenge-date{font-size:12px;margin:0 0 8px;color:#607567}.challenge-day-description label{display:flex;align-items:center;gap:12px;cursor:pointer;line-height:1.6}.challenge-day-description input{width:19px;height:19px;flex-shrink:0;accent-color:#158457}.challenge-day-main>.text-link{font-size:13px;flex-shrink:0}.challenge-days .is-future{color:#6b7d71}.challenge-days .is-future label{cursor:default}.challenge-note-label{display:block;margin:20px 0 0 56px;font-size:14px}.challenge-note-label span{font-size:12px;color:#607567}.challenge-note-label textarea{display:block;width:100%;margin-top:10px;border:1px solid #d9e5dc;background:#fbfcfa;border-radius:5px;padding:14px;resize:vertical;color:#18382b;line-height:1.8}.challenge-wrapup,.challenge-delete-confirm{background:#e8f1e7;padding:28px 32px;border-radius:6px;margin-top:24px}.challenge-wrapup p:last-child{margin-bottom:0}.challenge-delete-confirm .actions{margin-top:16px}.challenge-delete-confirm p{margin:0}.challenge-status{font-size:13px;color:#158457;line-height:1.8}.challenge-status:empty{display:none}.seven-day-challenge button:disabled{opacity:.5;cursor:not-allowed}
 @media(max-width:680px){.challenge-start,.challenge-record-heading{display:block;padding:24px 20px}.challenge-start .button{margin-top:22px;font-size:14px}.challenge-record-heading{padding:24px 0}.challenge-record-actions{margin-top:20px;gap:20px}.challenge-day-main{gap:14px;flex-wrap:wrap}.challenge-day-description{flex-basis:calc(100% - 50px)}.challenge-day-main>.text-link{margin-left:44px;padding:6px 0}.challenge-day-description label{font-size:14px}.challenge-day-number{font-size:22px}.challenge-note-label{margin-left:0}.challenge-wrapup,.challenge-delete-confirm{padding:24px 20px}.challenge-delete-confirm .button{font-size:13px;padding:13px 18px}}
 
+@media(max-width:680px){.seven-day-challenge.is-invite .challenge-invite{margin-bottom:10px;padding:8px 12px}.seven-day-challenge.is-invite .section-head{gap:8px}.seven-day-challenge.is-invite .section-head>p{font-size:14px;line-height:1.45}.seven-day-challenge.is-invite>.note{font-size:14px;line-height:1.5;margin-top:10px}.seven-day-challenge.is-invite .challenge-start{margin-top:14px;padding:18px 16px}.seven-day-challenge.is-invite .challenge-start h3{font-size:19px;line-height:1.4;margin:0 0 8px}.seven-day-challenge.is-invite .challenge-start p{font-size:14px;line-height:1.5}.seven-day-challenge.is-invite .challenge-start .button{margin-top:12px;min-height:48px}}
+
 .challenge-daily-message{display:grid;gap:5px;margin:20px 0 0;padding:16px 18px;border-left:3px solid #158457;background:#f5f8f5;font-size:14px;line-height:1.7}.challenge-daily-message strong{font-size:12px;letter-spacing:.08em;color:#158457}.challenge-daily-message span{color:#315f48}.challenge-invite-link{display:grid;gap:8px;margin-top:16px;font-size:13px;color:#52685c}.challenge-invite-link input{width:100%;padding:12px;border:1px solid #d9e5dc;border-radius:5px;background:#fff;color:#18382b}.challenge-milestone-card{margin-top:20px;padding:24px;border-radius:7px;background:#18382b;color:#fff}.challenge-milestone-card>span{font-size:11px;letter-spacing:.14em;color:#a9d7b6}.challenge-milestone-card h4{font-size:22px;line-height:1.45;margin:12px 0 8px}.challenge-milestone-card p{font-size:14px;line-height:1.8;color:#d9ede0;margin:0}.challenge-milestone-card-final{background:#158457}.challenge-milestone-card-final>span{color:#e4f7e8}
 .challenge-rhythm-link{display:inline-flex;align-items:center;gap:8px;margin-top:12px;color:#315f48;font-size:14px;font-weight:600;text-underline-offset:4px}.challenge-card-share{display:grid;grid-template-columns:minmax(140px,220px) minmax(0,1fr);gap:20px;align-items:center;margin-top:20px;padding-top:20px;border-top:1px solid rgba(217,237,224,.35)}.challenge-card-share img{display:block;width:100%;border:1px solid rgba(217,237,224,.55);border-radius:8px;background:#f7fbf5}.challenge-card-share>div{display:grid;gap:8px;justify-items:start}.challenge-card-share .text-link{display:inline-flex;align-items:center;gap:8px;color:inherit}.challenge-card-share .button.outline{border-color:#d9ede0;color:#fff}.challenge-card-share .button.outline:hover{background:rgba(255,255,255,.12)}
 @media(max-width:600px){.challenge-card-share{grid-template-columns:minmax(0,1fr)}.challenge-card-share img{max-width:240px}}

diff --git a/src/components/SevenDayChallenge.tsx b/src/components/SevenDayChallenge.tsx
@@ -198,12 +198,12 @@ export default function SevenDayChallenge({ onEvent, isInvite = false }: Props) 
     onEvent?.('result_share_success', { path: '/challenge', channel: 'download', milestone: String(milestone ?? '') });
   }
 
-  return <section id="lab" className="section wrap seven-day-challenge" aria-labelledby="challenge-heading">
-    {isInvite ? <p className="challenge-invite" role="status">친구가 7일 휴식 기록을 공유했어요. 나도 오늘부터 시작해 보세요.</p> : null}
+  return <section id="lab" className={`section wrap seven-day-challenge${isInvite ? ' is-invite' : ''}`} aria-labelledby="challenge-heading">
+    {isInvite ? <p className="challenge-invite" role="status">친구가 7일 휴식 기록을 공유했어요.</p> : null}
     <div className="section-head"><div><p className="chapter">7일 휴식 기록</p><h2 id="challenge-heading">하루 5분,<br />내가 고른 휴식 한 가지.</h2></div><p>제품을 사지 않아도 할 수 있어요.<br />기록과 메모는 이 기기에만 남아요.</p></div>
-    <p className="note">휴대폰이나 컴퓨터의 날짜를 기준으로 이 기기에만 기록해요. 건강 검사가 아니라 내가 실천한 휴식 습관을 돌아보는 기록이에요.</p>
+    <p className="note">{isInvite ? '건강 검사가 아닌 휴식 기록이에요. 기록은 이 기기에만 남아요.' : '휴대폰이나 컴퓨터의 날짜를 기준으로 이 기기에만 기록해요. 건강 검사가 아니라 내가 실천한 휴식 습관을 돌아보는 기록이에요.'}</p>
     {initial.legacy ? <p className="challenge-legacy">날짜가 없는 예전 기록은 이번 기록에 넣지 않았어요. 새로 시작한 날부터 적어 주세요.</p> : null}
-    {!record ? <div className="challenge-start"><div><h3>오늘부터 7일, 하루 한 번 쉬어 보기.</h3><p>시작일 {today} · 지나간 날은 나중에 적을 수 있어요.<br />앞으로 남은 날은 날짜가 된 뒤 체크해 주세요.</p></div><button className="button" onClick={start}>오늘부터 7일 시작 <ArrowRight size={18} aria-hidden="true" /></button></div> : <>
+    {!record ? <div className="challenge-start"><div><h3>오늘부터 7일, 하루 한 번 쉬어 보기.</h3><p>{isInvite ? <>시작일 {today} · 지나간 날은 나중에 적어도 돼요.</> : <>시작일 {today} · 지나간 날은 나중에 적을 수 있어요.<br />앞으로 남은 날은 날짜가 된 뒤 체크해 주세요.</>}</p></div><button className="button" onClick={start}>오늘부터 7일 시작 <ArrowRight size={18} aria-hidden="true" /></button></div> : <>
       <div className="challenge-record-heading"><div><p>{record.startDate} ~ {record.days[6]!.date}</p><h3>{completed}일 쉬었다고 기록했어요.</h3><p className="note">연속 {streak}일 · 점수가 아니라 체크한 날의 수예요. 빠뜨린 날도 편하게 남겨두세요.</p></div><div className="challenge-record-actions"><button className="text-link" onClick={download}><Download size={17} aria-hidden="true" /> 기록 파일 저장</button><button className="text-link" onClick={invite}>친구에게 링크 보내기 ↗</button><button className="text-link" onClick={() => setConfirmDelete(true)}><Trash2 size={17} aria-hidden="true" /> 기록 삭제</button></div></div>
       <div className="challenge-daily-message" role="status" aria-live="polite"><strong>오늘의 짧은 메시지</strong><span>{todayDay ? todayDay.completed ? '오늘의 작은 멈춤을 남겼어요. 내일도 같은 시간에 이어가 볼까요?' : '오늘 한 가지 휴식을 골라 체크해 보세요. 완벽하게 하지 않아도 괜찮아요.' : finished ? '7일 기록이 끝났어요. 남겨 둔 메모를 천천히 돌아보세요.' : '오늘 기록을 준비하고 있어요. 시작한 날짜의 흐름을 따라가 보세요.'}</span></div>
       {inviteLink ? <label className="challenge-invite-link">친구에게 보낼 링크<input value={inviteLink} readOnly onFocus={event => event.currentTarget.select()} /></label> : null}

diff --git a/src/styles.css b/src/styles.css
@@ -87,6 +87,11 @@ h1,h2,h3,p,summary,.habit{word-break:keep-all;overflow-wrap:break-word}@media(ma
 .intro-strip .step:focus-visible{outline:3px solid #8757b0;outline-offset:6px;border-radius:3px}
 @media(max-width:680px){.intro-strip .step{display:grid}.hero .actions{display:grid;grid-template-columns:minmax(0,1fr);max-width:360px}.hero .actions .button{width:100%;min-width:0;padding:14px 18px;gap:10px;font-size:14px}}
 @media(max-width:360px){.hero-copy{padding-inline:20px}}
+
+.process{grid-template-columns:repeat(3,1fr)}
+.process-note{display:flex;align-items:center;gap:12px;flex-wrap:wrap;margin:36px 0 -28px;font-size:14px;color:#315f48}
+.process-note>span{display:inline-flex;padding:6px 10px;border:1px solid #b6cdbd;border-radius:99px;background:#fff;color:#315f48;font-size:12px;font-weight:650}
+.process-note .text-link{font-weight:650;text-decoration:underline;text-underline-offset:3px}
 /* Make the buyer-review path visible before the product detail card. */
 .products-review-shortcut{display:inline-flex;align-items:center;margin-top:10px;color:var(--green);font-size:14px;font-weight:650;text-decoration:underline;text-underline-offset:4px}
 .hero-product{transition:border-color .18s,box-shadow .18s}

diff --git a/src/components/PurchaseQuestions.tsx b/src/components/PurchaseQuestions.tsx
@@ -3,7 +3,6 @@ import { REVIEW_DESTINATION_URL } from '../domain/reviews';
 type Product = {
   id: string;
   name: string;
-  amountMg: number;
   servings: number;
   officialUrl: string;
 };
@@ -12,7 +11,7 @@ type Track = (name: string, properties?: Record<string, string>) => void;
 
 export default function PurchaseQuestions({ products, onEvent }: { products: Product[]; onEvent?: Track }) {
   if (products.length === 0) return null;
-  const productSummary = products.map(product => `${product.name}은 1포 ${product.amountMg.toLocaleString()} mg·${product.servings}포 구성`).join(', ');
+  const productSummary = products.map(product => `${product.name} · ${product.servings}포 구성`).join(', ');
   return <section className="purchase-faq" aria-labelledby="purchase-faq-heading">
     <div className="purchase-faq-heading">
       <p className="chapter">구매 전 확인</p>

diff --git a/src/components/ProductShare.tsx b/src/components/ProductShare.tsx
@@ -15,7 +15,7 @@ export default function ProductShare({onEvent}:Props){
   try{
    if(typeof navigator.share!=='function'){await copy();return;}
    onEvent?.('share_requested',{path:'/products',channel:'native'});
-   await navigator.share({title:'셀핀다 가바 1500 제품 정보',text:'한 포에 든 양과 포장 구성을 함께 확인해 보세요.',url:link()});
+   await navigator.share({title:'셀핀다 가바 1500 제품 정보',text:'제품명과 포장 구성을 함께 확인해 보세요.',url:link()});
    setMessage('공유 창에서 선택한 앱을 확인해 주세요.');
   }catch(error){
    if(error instanceof Error&&error.name==='AbortError'){setMessage('공유를 취소했어요.');onEvent?.('share_cancelled',{path:'/products',channel:'native'});}

diff --git a/docs/TF_RELEASE_AUDIT_20260919.md b/docs/TF_RELEASE_AUDIT_20260919.md
@@ -66,9 +66,18 @@ GitHub Pages 정적 사이트는 공개 가능하지만 전체 제품 운영 플
 ### 2026-09-19 후속 감리 반영
 
 - 태블릿 폭(681–900px)에서 메뉴가 겹치고 첫 화면 글자가 사진 위에서 흐려질 수 있어 내비게이션을 접고, 제목·버튼 배경 대비를 보강했다.
-- 친구가 공유한 `?challenge=7days` 링크는 챌린지 시작 지점으로 바로 이동한다. 초대 문구도 도착한 구역 안에 보여 주고, 이미지 로딩으로 위치가 밀리면 잠시 다시 맞춘다. 방문자가 직접 화면을 조작하면 자동 보정을 멈춘다.
+- 친구가 공유한 `?challenge=7days` 링크는 챌린지 시작 지점으로 바로 이동한다. 시작 버튼이 모바일 첫 화면에 들어오도록 안내를 압축하고 초대 문구도 도착 구역 안에 보여 준다. 이미지 로딩으로 위치가 밀리면 잠시 다시 맞추며 방문자가 직접 화면을 조작하면 자동 보정을 멈춘다.
 - 첫 화면의 제품 구성 요약을 키보드로 선택할 수 있는 링크로 바꿔 상세 구성으로 이동하게 했다.
 - GitHub Pages의 존재하지 않는 경로에는 메인 화면을 그대로 보여주던 동작을 고쳐, 소비자용 404 안내와 복귀 링크를 제공한다.
 - 360px·390px·768px에서 레이아웃과 이동 동작을 Chrome CDP로 다시 확인했다. 테스트 101개, 타입 검사, UI 계약, 산출물 검사는 통과했다.
 - 사용자 요청에 맞춰 논문을 부정적으로 요약하는 표현은 추가하지 않았다. 기존 승인 연구 요약과 셀핀다 완제품 효능을 분리하는 경계 문구를 유지한다.
+- Actions 참조 중 Pages 공개에 사용되는 태그 버전을 immutable commit SHA로 고정해 릴리스 실행 소스를 명확히 했다.
 - 정적 변경분은 GitHub Pages 배포 대상으로 준비했다. Cloudflare Worker/D1 연결은 배포 비밀값 5개가 빠져 여전히 `WAITING`이다.
+
+### 2026-09-19 후속 근거·제품 표시 감리
+
+- 스크립트를 쓰지 않는 기본 HTML에 승인 보류된 체성분 연구 주제가 섞여 있던 문구를 승인된 11명 성장호르몬 연구 설명으로 바로잡았다.
+- 2020년 문헌고찰은 소비자 화면에서 연구 범위만 안내한다. “연구마다 결과가 달랐다”는 요약은 공개 데이터에서 빼고, 참여자·섭취 조건·측정 항목을 다룬다는 설명과 출처·관계 공개는 유지한다.
+- 소비자용 제품 화면·공유 카드·정적 공개 데이터에서 포당 1,500mg 및 총 45g 숫자를 뺐다. 확인된 제품명, 30포, 기타가공품 분류와 SmartStore 링크만 보인다. 현재 승인된 포장·성분표를 받기 전에는 1,500mg이 GABA 활성성분량인지 낱포 총량인지 화면에서 단정하지 않는다. 제품 내부 원장의 수치는 공개 UI/API에 내보내지 않는다.
+- 셀핀다 실제 제조 순서처럼 보이던 “발효→거르기→용량 확인→품질 확인” 그림을 없애고, 출처가 분명한 특허 문서의 발효 예시로 바꿨다. Byun 연구의 PSQI·ISI 약어는 잠의 질·잠드는 어려움을 묻는 설문이라고 쉬운 말로 바꿨다.
+- 변경 후 제품 공개 JSON에서 `amountMg`·`totalG`가 빠졌는지, 공유 카드와 기본 HTML에도 같은 경계가 지켜지는지 자동 검사한다. 테스트 101개, 타입 검사, 전체 프로덕션 빌드가 통과했다. Chrome CDP로 제품 화면을 390px·1440px에서 확인해 가로 넘침과 콘솔 오류가 없고, 제품명·30포·포장 확인 안내가 보이는지 점검했다. 초대 링크의 시작 버튼은 별도 신선 세션에서 360px·390px에 보이는 것을 확인했다. GitHub Pages의 배포 후 검증은 다음 Actions 실행에서 확인한다.
